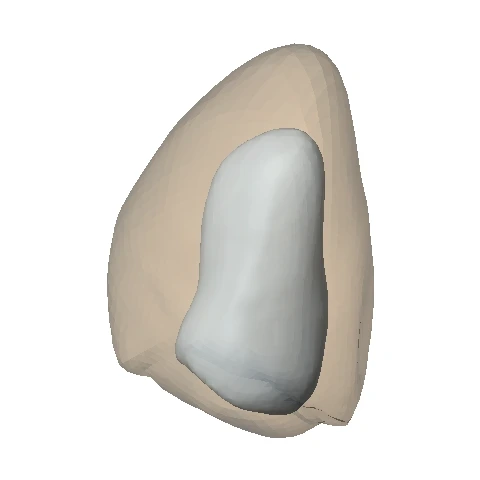
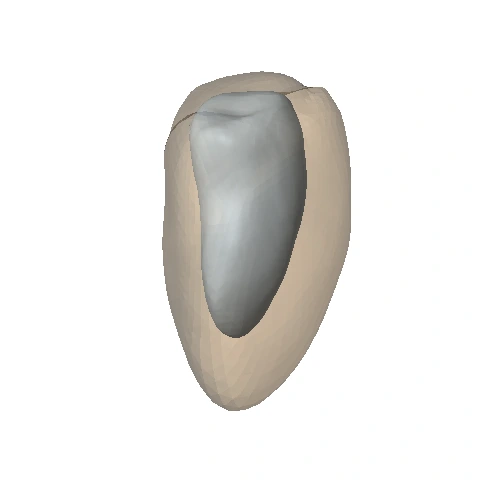
Revise display angles, illustrative RA layout, and demo comparisons

Changed region(s): [[0.2188, 0.0938, 0.7812, 0.9375]]

diff --git a/docs/data.js b/docs/data.js
@@ -1,1 +1,1 @@
-window.DEMO_DATA = {"clinical":[{"label":"Normal","gif":"assets/normal-01.gif","poster":"assets/normal-01.webp","frames":25,"views":{"Common":{"gif":"assets/normal-01.gif","poster":"assets/normal-01.webp","frames":25},"A2C":{"gif":"assets/normal-01-A2C.gif","poster":"assets/normal-01-A2C.webp","frames":25},"A3C":{"gif":"assets/normal-01-A3C.gif","poster":"assets/normal-01-A3C.webp","frames":25},"A4C":{"gif":"assets/normal-01-A4C.gif","poster":"assets/normal-01-A4C.webp","frames":25}}},{"label":"HCM","gif":"assets/hcm-01.gif","poster":"assets/hcm-01.webp","frames":24,"views":{"Common":{"gif":"assets/hcm-01.gif","poster":"assets/hcm-01.webp","frames":24},"A2C":{"gif":"assets/hcm-01-A2C.gif","poster":"assets/hcm-01-A2C.webp","frames":24},"A3C":{"gif":"assets/hcm-01-A3C.gif","poster":"assets/hcm-01-A3C.webp","frames":24},"A4C":{"gif":"assets/hcm-01-A4C.gif","poster":"assets/hcm-01-A4C.webp","frames":24}}},{"label":"MRI-derived · R01 (MI LV prior)","gif":"assets/mri-prior-01.gif","poster":"assets/mri-prior-01.webp","frames":25,"views":{"Common":{"gif":"assets/mri-prior-01.gif","poster":"assets/mri-prior-01.webp","frames":25},"A2C":{"gif":"assets/mri-prior-01-A2C.gif","poster":"assets/mri-prior-01-A2C.webp","frames":25},"A3C":{"gif":"assets/mri-prior-01-A3C.gif","poster":"assets/mri-prior-01-A3C.webp","frames":25},"A4C":{"gif":"assets/mri-prior-01-A4C.gif","poster":"assets/mri-prior-01-A4C.webp","frames":25}}}],"wholeheart":[{"label":"Whole heart · P1","gif":"assets/wholeheart-01.gif","poster":"assets/wholeheart-01.webp","frames":35},{"label":"Whole heart · P2","gif":"assets/wholeheart-02.gif","poster":"assets/wholeheart-02.webp","frames":35}],"heldout":[{"label":"Normal · P1","image":"assets/heldout-1-echo.png"},{"label":"MI · P2","image":"assets/heldout-2-echo.png"},{"label":"HCM · P3","image":"assets/heldout-3-echo.png"}],"ct":[{"label":"CT · P1","gif":"assets/ct-1.gif","poster":"assets/ct-1.webp"},{"label":"CT · P2","gif":"assets/ct-2.gif","poster":"assets/ct-2.webp"},{"label":"CT · P3","gif":"assets/ct-3.gif","poster":"assets/ct-3.webp"}],"mri":[{"label":"MRI · P1","frames":["assets/mri-P1/000.webp","assets/mri-P1/001.webp","assets/mri-P1/002.webp","assets/mri-P1/003.webp","assets/mri-P1/004.webp","assets/mri-P1/005.webp","assets/mri-P1/006.webp","assets/mri-P1/007.webp","assets/mri-P1/008.webp","assets/mri-P1/009.webp","assets/mri-P1/010.webp","assets/mri-P1/011.webp","assets/mri-P1/012.webp","assets/mri-P1/013.webp","assets/mri-P1/014.webp","assets/mri-P1/015.webp","assets/mri-P1/016.webp","assets/mri-P1/017.webp","assets/mri-P1/018.webp","assets/mri-P1/019.webp","assets/mri-P1/020.webp","assets/mri-P1/021.webp","assets/mri-P1/022.webp","assets/mri-P1/023.webp","assets/mri-P1/024.webp"],"curves":{"MRI GT":[[0,1],[4,0.9591960143537437],[8,0.9075745395481257],[12,0.8218454034153171],[16,0.6796065079481576],[20,0.6168328038008901],[24,0.5366087340011614],[28,0.48575466834549963],[32,0.455918108863605],[36,0.4398583729374521],[40,0.44484797332453674],[44,0.45601543720263854],[48,0.49517530117222475],[52,0.5852567838455223],[56,0.6936541164462414],[60,0.7460487027340879],[64,0.7778282110797115],[68,0.7990675495861659],[72,0.8023002060925484],[76,0.7987164229560849],[80,0.8097010547274791],[84,0.840080553180822],[88,0.9048547809493717],[92,0.9759199799048512],[96,0.9896440440273611]],"EchoSDF":[[0,1],[4,0.9534299527549093],[8,0.8765894071626954],[12,0.812953670508796],[16,0.6982382712477174],[20,0.613862252244682],[24,0.5428787706293268],[28,0.48932140645224975],[32,0.45715175831710486],[36,0.441028015892486],[40,0.43938245423673356],[44,0.4385940428586615],[48,0.49021291399515987],[52,0.5808442984302828],[56,0.673505449201432],[60,0.7503830823072125],[64,0.7887288309768579],[68,0.7891005518319734],[72,0.7982016194054969],[76,0.8116043222007019],[80,0.8072140401484368],[84,0.8575144675562794],[88,0.8885936154449661],[92,0.9480826409963378],[96,1.0140472361706319]]},"downloads":{"meshCurve":"assets/mri-P1-mesh-curve.gif","curve":"assets/mri-P1-curve.gif"}},{"label":"MRI · P2","frames":["assets/mri-P2/000.webp","assets/mri-P2/001.webp","assets/mri-P2/002.webp","assets/mri-P2/003.webp","assets/mri-P2/004.webp","assets/mri-P2/005.webp","assets/mri-P2/006.webp","assets/mri-P2/007.webp","assets/mri-P2/008.webp","assets/mri-P2/009.webp","assets/mri-P2/010.webp","assets/mri-P2/011.webp","assets/mri-P2/012.webp","assets/mri-P2/013.webp","assets/mri-P2/014.webp","assets/mri-P2/015.webp","assets/mri-P2/016.webp","assets/mri-P2/017.webp","assets/mri-P2/018.webp","assets/mri-P2/019.webp","assets/mri-P2/020.webp","assets/mri-P2/021.webp","assets/mri-P2/022.webp","assets/mri-P2/023.webp","assets/mri-P2/024.webp"],"curves":{"MRI GT":[[0,1],[4,0.9428890890970781],[8,0.8601787728522788],[12,0.7563681246157092],[16,0.6534936855060148],[20,0.5621004587428748],[24,0.5165021400749643],[28,0.48208159553220675],[32,0.47224756256312145],[36,0.49034717489853935],[40,0.5654340397534897],[44,0.6970419615004203],[48,0.8178829219928172],[52,0.8818342132570754],[56,0.8953431787228406],[60,0.8976211159345634],[64,0.8947939908665856],[68,0.9038835853552963],[72,0.8977629875746587],[76,0.8965652287953443],[80,0.9023826440902427],[84,0.8976977022659686],[88,0.9090310487769343],[92,0.9497972427300254],[96,0.9888811937420776]],"EchoSDF":[[0,1],[4,0.9071634074868538],[8,0.849588961384968],[12,0.7478476659864929],[16,0.6575016193424809],[20,0.5783440358331281],[24,0.5061229138673393],[28,0.4808488026306557],[32,0.4607715554133868],[36,0.4934952036776385],[40,0.5611136479653932],[44,0.6670198739795491],[48,0.7857084791318383],[52,0.8576127529329158],[56,0.8831350859225453],[60,0.8761567209162804],[64,0.904320715372095],[68,0.9097687535034328],[72,0.9091558056858676],[76,0.928670521433221],[80,0.9210662933795176],[84,0.8959813699353344],[88,0.8998474805826134],[92,0.9317480004038758],[96,0.9601350022358602]]},"downloads":{"meshCurve":"assets/mri-P2-mesh-curve.gif","curve":"assets/mri-P2-curve.gif"}}],"overlap":{"label":"Three-view LV overlap · Normal P1","gif":"assets/overlap-echo.gif","poster":"assets/overlap-echo.png"}};
+window.DEMO_DATA = {"clinical":[{"label":"Normal","gif":"assets/normal-01.gif","poster":"assets/normal-01.webp","frames":25,"views":{"Common":{"gif":"assets/normal-01.gif","poster":"assets/normal-01.webp","frames":25},"A2C":{"gif":"assets/normal-01-A2C.gif","poster":"assets/normal-01-A2C.webp","frames":25},"A3C":{"gif":"assets/normal-01-A3C.gif","poster":"assets/normal-01-A3C.webp","frames":25},"A4C":{"gif":"assets/normal-01-A4C.gif","poster":"assets/normal-01-A4C.webp","frames":25}}},{"label":"HCM","gif":"assets/hcm-01.gif","poster":"assets/hcm-01.webp","frames":24,"views":{"Common":{"gif":"assets/hcm-01.gif","poster":"assets/hcm-01.webp","frames":24},"A2C":{"gif":"assets/hcm-01-A2C.gif","poster":"assets/hcm-01-A2C.webp","frames":24},"A3C":{"gif":"assets/hcm-01-A3C.gif","poster":"assets/hcm-01-A3C.webp","frames":24},"A4C":{"gif":"assets/hcm-01-A4C.gif","poster":"assets/hcm-01-A4C.webp","frames":24}}},{"label":"MI","gif":"assets/mri-prior-01.gif","poster":"assets/mri-prior-01.webp","frames":25,"views":{"Common":{"gif":"assets/mri-prior-01.gif","poster":"assets/mri-prior-01.webp","frames":25},"A2C":{"gif":"assets/mri-prior-01-A2C.gif","poster":"assets/mri-prior-01-A2C.webp","frames":25},"A3C":{"gif":"assets/mri-prior-01-A3C.gif","poster":"assets/mri-prior-01-A3C.webp","frames":25},"A4C":{"gif":"assets/mri-prior-01-A4C.gif","poster":"assets/mri-prior-01-A4C.webp","frames":25}}}],"wholeheart":[{"label":"Whole heart · P1 (display-adjusted)","gif":"assets/wholeheart-01-adjusted.gif","poster":"assets/wholeheart-01-adjusted.webp","frames":35,"originalGif":"assets/wholeheart-01.gif","originalPoster":"assets/wholeheart-01.webp"},{"label":"Whole heart · P2","gif":"assets/wholeheart-02.gif","poster":"assets/wholeheart-02.webp","frames":35}],"heldout":[{"label":"Normal · P1","image":"assets/heldout-1-echo.png"},{"label":"MI · P2","image":"assets/heldout-2-echo.png"},{"label":"HCM · P3","image":"assets/heldout-3-echo.png"}],"ct":[{"label":"CT · P1","gif":"assets/ct-1.gif","poster":"assets/ct-1.webp"},{"label":"CT · P2","gif":"assets/ct-2.gif","poster":"assets/ct-2.webp"},{"label":"CT · P3","gif":"assets/ct-3.gif","poster":"assets/ct-3.webp"}],"mri":[{"label":"MRI · P1","frames":["assets/mri-P1/000.webp","assets/mri-P1/001.webp","assets/mri-P1/002.webp","assets/mri-P1/003.webp","assets/mri-P1/004.webp","assets/mri-P1/005.webp","assets/mri-P1/006.webp","assets/mri-P1/007.webp","assets/mri-P1/008.webp","assets/mri-P1/009.webp","assets/mri-P1/010.webp","assets/mri-P1/011.webp","assets/mri-P1/012.webp","assets/mri-P1/013.webp","assets/mri-P1/014.webp","assets/mri-P1/015.webp","assets/mri-P1/016.webp","assets/mri-P1/017.webp","assets/mri-P1/018.webp","assets/mri-P1/019.webp","assets/mri-P1/020.webp","assets/mri-P1/021.webp","assets/mri-P1/022.webp","assets/mri-P1/023.webp","assets/mri-P1/024.webp"],"curves":{"MRI GT":[[0,1],[4,0.9591960143537437],[8,0.9075745395481257],[12,0.8218454034153171],[16,0.6796065079481576],[20,0.6168328038008901],[24,0.5366087340011614],[28,0.48575466834549963],[32,0.455918108863605],[36,0.4398583729374521],[40,0.44484797332453674],[44,0.45601543720263854],[48,0.49517530117222475],[52,0.5852567838455223],[56,0.6936541164462414],[60,0.7460487027340879],[64,0.7778282110797115],[68,0.7990675495861659],[72,0.8023002060925484],[76,0.7987164229560849],[80,0.8097010547274791],[84,0.840080553180822],[88,0.9048547809493717],[92,0.9759199799048512],[96,0.9896440440273611]],"EchoSDF":[[0,1],[4,0.9534299527549093],[8,0.8765894071626954],[12,0.812953670508796],[16,0.6982382712477174],[20,0.613862252244682],[24,0.5428787706293268],[28,0.48932140645224975],[32,0.45715175831710486],[36,0.441028015892486],[40,0.43938245423673356],[44,0.4385940428586615],[48,0.49021291399515987],[52,0.5808442984302828],[56,0.673505449201432],[60,0.7503830823072125],[64,0.7887288309768579],[68,0.7891005518319734],[72,0.7982016194054969],[76,0.8116043222007019],[80,0.8072140401484368],[84,0.8575144675562794],[88,0.8885936154449661],[92,0.9480826409963378],[96,1.0140472361706319]]},"downloads":{"meshCurve":"assets/mri-P1-mesh-curve.gif","curve":"assets/mri-P1-curve.gif"}},{"label":"MRI · P2","frames":["assets/mri-P2/000.webp","assets/mri-P2/001.webp","assets/mri-P2/002.webp","assets/mri-P2/003.webp","assets/mri-P2/004.webp","assets/mri-P2/005.webp","assets/mri-P2/006.webp","assets/mri-P2/007.webp","assets/mri-P2/008.webp","assets/mri-P2/009.webp","assets/mri-P2/010.webp","assets/mri-P2/011.webp","assets/mri-P2/012.webp","assets/mri-P2/013.webp","assets/mri-P2/014.webp","assets/mri-P2/015.webp","assets/mri-P2/016.webp","assets/mri-P2/017.webp","assets/mri-P2/018.webp","assets/mri-P2/019.webp","assets/mri-P2/020.webp","assets/mri-P2/021.webp","assets/mri-P2/022.webp","assets/mri-P2/023.webp","assets/mri-P2/024.webp"],"curves":{"MRI GT":[[0,1],[4,0.9428890890970781],[8,0.8601787728522788],[12,0.7563681246157092],[16,0.6534936855060148],[20,0.5621004587428748],[24,0.5165021400749643],[28,0.48208159553220675],[32,0.47224756256312145],[36,0.49034717489853935],[40,0.5654340397534897],[44,0.6970419615004203],[48,0.8178829219928172],[52,0.8818342132570754],[56,0.8953431787228406],[60,0.8976211159345634],[64,0.8947939908665856],[68,0.9038835853552963],[72,0.8977629875746587],[76,0.8965652287953443],[80,0.9023826440902427],[84,0.8976977022659686],[88,0.9090310487769343],[92,0.9497972427300254],[96,0.9888811937420776]],"EchoSDF":[[0,1],[4,0.9071634074868538],[8,0.849588961384968],[12,0.7478476659864929],[16,0.6575016193424809],[20,0.5783440358331281],[24,0.5061229138673393],[28,0.4808488026306557],[32,0.4607715554133868],[36,0.4934952036776385],[40,0.5611136479653932],[44,0.6670198739795491],[48,0.7857084791318383],[52,0.8576127529329158],[56,0.8831350859225453],[60,0.8761567209162804],[64,0.904320715372095],[68,0.9097687535034328],[72,0.9091558056858676],[76,0.928670521433221],[80,0.9210662933795176],[84,0.8959813699353344],[88,0.8998474805826134],[92,0.9317480004038758],[96,0.9601350022358602]]},"downloads":{"meshCurve":"assets/mri-P2-mesh-curve.gif","curve":"assets/mri-P2-curve.gif"}}],"overlap":{"label":"Three-view LV overlap · Normal P1","gif":"assets/overlap-echo.gif","poster":"assets/overlap-echo.png"},"comparison":{"label":"Published reconstruction comparison","gif":"assets/comparison-external.gif","poster":"assets/comparison-external.webp","source":"https://github.com/ryannus2025-ai/Echo4DIR","frames":88}};

diff --git a/docs/index.html b/docs/index.html
@@ -2,11 +2,11 @@
 <html lang="en"><head><meta charset="utf-8"><meta name="viewport" content="width=device-width, initial-scale=1"><meta name="description" content="Echo4DMesh: from sparse echo views to dynamic 4D cardiac meshes. Research demonstrations from sparse-view masks."><title>From Sparse Echo Views to Dynamic 4D Cardiac Meshes · Echo4DMesh</title><link rel="stylesheet" href="style.css"><script defer src="data.js"></script><script defer src="app.js"></script></head>
 <body><header><a class="brand" href="#">Echo<span>4D</span>Mesh</a><nav aria-label="Main navigation"><a href="#clinical">Clinical</a><a href="#overlap">Cross-sections</a><a href="#wholeheart">Whole heart</a><a href="#validation">Validation</a><a href="https://github.com/lya19971103/Echo4DMesh">GitHub ↗</a></nav></header>
 <main><section class="hero"><div><p class="eyebrow">RESEARCH DEMONSTRATIONS / CARDIAC RECONSTRUCTION</p><h1>From sparse echo views<br>To dynamic <em>4D cardiac meshes.</em></h1><p class="intro">Explore patient-specific cardiac surfaces, cross-sectional agreement, and paired CT and cine MRI comparisons.</p><a class="button" href="#clinical">Explore the reconstructions ↓</a><p class="fine">Derived research visualizations · Not for clinical use</p></div><figure class="hero-media"><img src="assets/normal-01.webp" alt="Reconstructed LV within its epicardial envelope"><figcaption>Left ventricle + epicardial envelope<span>4D / surface geometry</span></figcaption></figure></section>
-<section id="clinical"><div class="section-head"><p class="eyebrow">01 / CARDIAC MOTION</p><h2>One framework. Different anatomies.</h2><p>Normal and HCM clinical echo examples, alongside an MRI-derived three-view reconstruction using an MI LV prior. All three start from a common display angle; select A2C, A3C or A4C to inspect the corresponding calibrated view.</p></div><div id="clinical-grid" class="grid three"></div><p class="note">The third example is MRI-derived, not a clinical MI echo case; MI denotes its LV prior. View labels refer to learned imaging planes, and MRI views are approximate. These selected examples illustrate morphology and motion, not diagnostic classification. Playback is normalized, not clinical heart rate. An epicardial envelope is not a separate measurement of myocardial wall thickness.</p></section>
+<section id="clinical"><div class="section-head"><p class="eyebrow">01 / CARDIAC MOTION</p><h2>One framework. Different anatomies.</h2><p>Three representative LV–MYO motion examples share the same display angle. Select A2C, A3C or A4C for schematic views obtained by rotating about the common vertical axis.</p></div><div id="comparison-player" class="comparison-block"></div><p class="note comparison-note">Published demo from <a href="https://github.com/ryannus2025-ai/Echo4DIR">Echo4DIR</a>. The middle-column header is relabeled “w/o TC-RSA”; it remains the original frame-by-frame comparator. Mesh imagery and timing are unchanged; this is not a newly run ablation.</p><div id="clinical-grid" class="grid three"></div><p class="note">The card labeled MI uses MRI-derived input masks and an MI LV prior, not a verified clinical MI echo acquisition. View labels are schematic: A4C = common angle, A2C = +60°, A3C = +120° about the display vertical axis; they are not calibrated acquisition planes. These selected examples illustrate morphology and motion, not diagnostic classification. Playback is normalized, not clinical heart rate. An epicardial envelope is not a separate measurement of myocardial wall thickness.</p></section>
 <section id="heldout"><div class="section-head"><p class="eyebrow">02 / HELD-OUT SHAPE ADAPTATION</p><h2>A view beyond the shape inputs.</h2><p>A3C and A4C drive shape adaptation. Compare the predicted A2C cross-section with its reference mask before and after adaptation, overlaid on the matched ultrasound frame.</p></div><div class="protocol"><span>A3C + A4C</span><span aria-hidden="true">→</span><span>Shape adaptation</span><span aria-hidden="true">→</span><span>A2C evaluation</span></div><div id="heldout-grid" class="grid three"></div><p class="legend"><i class="green"></i>Reference only <i class="red"></i>Prediction only <i class="purple"></i>Overlap</p><p class="note">Protocol boundary: A2C is withheld from the shape encoder and shape-adaptation loss, but its mask is used for probe-pose calibration. This is not a completely untouched target-view test. Backgrounds are matched real ultrasound frames with scanner-margin annotations removed; masks and predictions are unchanged.</p></section>
 <section id="overlap"><div class="section-head"><p class="eyebrow">03 / 2D OBSERVATION AGREEMENT</p><h2>Follow the cross-sections through a cycle.</h2><p>LV sections of the exported mesh compared with the input masks in A2C, A3C and A4C, using the fixed calibrated planes.</p></div><div id="overlap-player" class="wide"></div><p class="legend"><i class="green"></i>Reference only <i class="red"></i>Prediction only <i class="purple"></i>Overlap</p><p class="note">This is an observed-view fit, separate from the held-out experiment above. High 2D overlap does not by itself establish independent 3D anatomical accuracy.</p></section>
-<section id="wholeheart"><div class="section-head"><p class="eyebrow">04 / MULTI-STRUCTURE EXPLORATION</p><h2>A shared space for the whole heart.</h2><p>Two five-structure surface reconstructions in a common coordinate system, shown with smooth lighting and a more transparent epicardial envelope.</p></div><div id="wholeheart-grid" class="grid two"></div><p class="note">LV: pearl · epicardial envelope: champagne · RV: blue · LA: orange · RA: teal. Display normals are smoothed; vertex positions are unchanged. Chambers are independently closed surfaces, not a valve-connected anatomical model. Residual gaps or intersections may remain, including a phase-dependent RA–RV gap in P1. Relative anatomical validity and wall thickness require separate evaluation.</p></section>
-<section id="validation"><div class="section-head"><p class="eyebrow">05 / CT GEOMETRY COMPARISON</p><h2>A different modality. A three-dimensional reference.</h2><p>Rotate the paper's three patient-matched LV examples: reconstruction in red and CT reference as a thin blue wireframe, matching the MRI comparison style below.</p></div><div id="ct-grid" class="grid three"></div><p class="note">The CT wireframe is simplified for display only; source meshes and measurements are unchanged. Camera rotation only: these are static end-diastolic surfaces, not CT motion sequences. A global similarity transform aligns position, orientation and uniform scale; no nonrigid deformation is applied. These revised-label visualization examples are complementary CT comparisons, not additional independent validation or evidence of absolute scale recovery.</p></section>
+<section id="wholeheart"><div class="section-head"><p class="eyebrow">04 / MULTI-STRUCTURE EXPLORATION</p><h2>A shared space for the whole heart.</h2><p>Five-structure surfaces with smooth lighting and a transparent epicardial envelope. P1 additionally includes a clearly labeled display-only RA position adjustment; its original reconstruction remains available.</p></div><div id="wholeheart-grid" class="grid two"></div><p class="note">LV: pearl · epicardial envelope: champagne · RV: blue · LA: orange · RA: teal. P1: RA is translated downward by 3% of the whole-heart display height, identically at all phases, for illustrative layout only. This adjusted view is not an evaluated reconstruction. Use “Show original geometry” to inspect the unchanged output. P2 positions are unchanged. Chambers are independently closed surfaces, not a valve-connected model; gaps or intersections may remain.</p></section>
+<section id="validation"><div class="section-head"><p class="eyebrow">05 / CT GEOMETRY COMPARISON</p><h2>A different modality. A three-dimensional reference.</h2><p>Rotate the paper's three patient-matched LV examples: reconstruction in red and CT reference as a thin blue wireframe, matching the MRI comparison colors, surface opacity and wire styling below. Each lower-left inset is the corresponding static 3D overlap panel from the paper.</p></div><div id="ct-grid" class="grid three"></div><p class="note">The CT wireframe is simplified for display only; source meshes and measurements are unchanged. Camera rotation only: these are static end-diastolic surfaces, not CT motion sequences. A global similarity transform aligns position, orientation and uniform scale; no nonrigid deformation is applied. These revised-label visualization examples are complementary CT comparisons, not additional independent validation or evidence of absolute scale recovery.</p></section>
 <section id="mri"><div class="section-head"><p class="eyebrow">06 / CINE MRI TEMPORAL COMPARISON</p><h2>Geometry and volume, in step.</h2><p>The two paper-selected examples pair each rendered frame with its measured normalized LV volume. Scrub the cycle or press play: mesh and curve marker share the same frame index.</p><a class="download-link" href="assets/MRI_mesh_and_volume_GIFs.zip" download>Download MRI mesh + volume-curve GIFs ↓</a></div><div id="mri-grid" class="grid two"></div><p class="note">Red: reconstructed LV · blue: MRI reference · champagne: epicardial envelope. Curves are normalized by each sequence's end-diastolic volume. All 25 native frames are retained; frame 24 is 96% of a periodic cycle. The 100% curve endpoint repeats frame 0 for display closure, not an extra measured frame. MRI-derived approximate view masks are distinct from clinical ultrasound acquisition.</p></section>
 <section class="methods"><p class="eyebrow">READING THESE DEMOS</p><h2>Geometry is evidence. Context matters.</h2><div class="grid three"><div><h3>Real outputs, not illustrations</h3><p>Animations are rendered from stored reconstruction outputs. CT camera motion does not deform the mesh; MRI curves use stored per-frame measurements.</p></div><div><h3>Separate evaluation questions</h3><p>Observed-view overlap, held-out shape adaptation, CT geometry and MRI temporal agreement address different questions and should not be treated as interchangeable.</p></div><div><h3>Display aliases only</h3><p>Public assets use cohort labels and display aliases. Ultrasound previews exclude scanner-margin annotations; source filenames, scan dates, raw scan files and private filesystem paths are not distributed.</p></div></div></section></main>
 <footer><a class="brand" href="#">Echo<span>4D</span>Mesh</a><p>Research demo gallery · <a href="https://github.com/lya19971103/Echo4DMesh">Source repository ↗</a></p><p>For research communication only. No clinical interpretation is provided.</p></footer></body></html>

diff --git a/docs/style.css b/docs/style.css
@@ -1,2 +1,3 @@
 :root{--ink:#17332e;--muted:#536b65;--paper:#f6f8f4;--accent:#16785c;--line:#d9e3dc}*{box-sizing:border-box}html{scroll-behavior:smooth;scroll-padding-top:90px}body{margin:0;color:var(--ink);background:var(--paper);font:16px/1.65 system-ui,-apple-system,BlinkMacSystemFont,"Segoe UI",sans-serif}header{display:flex;justify-content:space-between;align-items:center;gap:24px;padding:19px 5vw;border-bottom:1px solid var(--line);background:#f6f8f4f5;position:sticky;top:0;z-index:5;backdrop-filter:blur(12px)}a{color:inherit;text-underline-offset:4px}.brand{font-weight:800;font-size:22px;letter-spacing:-1px;text-decoration:none;white-space:nowrap}.brand span{color:var(--accent)}nav{display:flex;gap:24px;font-size:13px}nav a{text-decoration:none}nav a:hover{color:var(--accent)}main{max-width:1280px;margin:auto;padding:0 5vw}.hero{display:grid;grid-template-columns:1.15fr 1fr;gap:60px;align-items:center;padding:70px 0 80px}.eyebrow{font-size:11px;letter-spacing:2px;font-weight:750;color:var(--accent)}h1{font-size:clamp(38px,4.7vw,66px);line-height:1.08;font-weight:650;letter-spacing:-3px;margin:22px 0}h1 em{font-family:Georgia,serif;font-weight:normal;color:var(--accent)}.intro{font-size:18px;color:var(--muted);max-width:500px}.button,button{display:inline-block;background:var(--ink);color:white;border:0;border-radius:6px;padding:12px 18px;font:600 13px system-ui;cursor:pointer;text-decoration:none}.button{margin-top:15px}.fine{font-size:11px;color:var(--muted);margin-top:20px}.hero-media{margin:0;background:white;border:1px solid var(--line);border-radius:18px;overflow:hidden}.hero-media img{width:100%;display:block}.hero-media figcaption{padding:16px 20px;font-size:12px;border-top:1px solid var(--line)}figcaption span{display:block;color:var(--muted);font-size:10px;text-transform:uppercase;letter-spacing:1px}section:not(.hero){padding:55px 0;border-top:1px solid var(--line)}.section-head{max-width:780px;margin-bottom:30px}h2{font-size:clamp(25px,3vw,37px);line-height:1.2;letter-spacing:-1.2px;font-weight:650;margin:12px 0 18px}.section-head p:not(.eyebrow),.note{color:var(--muted)}.grid{display:grid;gap:20px}.three{grid-template-columns:repeat(3,1fr)}.two{grid-template-columns:repeat(2,1fr)}.card{background:white;border:1px solid var(--line);border-radius:10px;overflow:hidden}.card h3{font-size:15px;margin:0;padding:16px 18px;border-bottom:1px solid var(--line)}.card img{width:100%;display:block;object-fit:contain}.controls{display:flex;align-items:center;gap:12px;padding:12px 16px;border-top:1px solid var(--line);flex-wrap:wrap;font-size:12px}.controls a{margin-left:auto;color:var(--accent)}button{padding:8px 14px}button:hover{background:var(--accent)}button:focus-visible,a:focus-visible,input:focus-visible{outline:3px solid #d39632;outline-offset:3px}.note{font-size:12px;line-height:1.7;margin-top:20px;max-width:1000px}.protocol{display:flex;gap:18px;align-items:center;flex-wrap:wrap;margin:0 0 25px;font-size:13px}.protocol span:nth-child(odd){border:1px solid var(--line);padding:8px 18px;border-radius:5px;background:white}.legend{display:flex;align-items:center;justify-content:center;gap:8px;font-size:12px;flex-wrap:wrap}.legend i{width:12px;height:12px;margin-left:14px}.green{background:#77d27e}.red{background:#ff6675}.purple{background:#7f2ea4}.wide{max-width:900px;margin:auto}.wide img{width:100%}.mri-image{max-height:420px}.mri-curve{width:100%;height:180px;display:block}.slider{width:100%;accent-color:var(--accent)}.readout{font-variant-numeric:tabular-nums;color:var(--muted)}.chart-legend{display:flex;gap:15px;padding:0 18px;font-size:11px}.chart-legend span:before{content:'— ';font-weight:bold;color:var(--c)}.methods h3{font-size:16px}.methods .grid p{font-size:13px;color:var(--muted)}footer{border-top:1px solid var(--line);padding:35px 5vw;display:flex;gap:35px;justify-content:space-between;align-items:center;font-size:11px;color:var(--muted)}@media(max-width:800px){header{flex-wrap:wrap;gap:9px}nav{gap:14px;flex-wrap:wrap;font-size:11px}.hero{grid-template-columns:1fr;gap:25px;padding:35px 0}.hero-media{max-width:420px}h1{letter-spacing:-1.8px}.three,.two{grid-template-columns:1fr}.card{max-width:620px;width:100%;margin:auto}section:not(.hero){padding:35px 0}footer{align-items:flex-start;flex-direction:column;gap:5px}}@media(prefers-reduced-motion:reduce){html{scroll-behavior:auto}}
 .view-selector{display:flex;align-items:center;gap:8px;width:100%;color:var(--muted)}.view-selector select{min-width:0;max-width:100%;padding:6px 8px;border:1px solid var(--line);border-radius:4px;background:white;color:var(--ink);font:inherit}.view-downloads{display:flex;flex-wrap:wrap;gap:10px 16px;padding:12px 16px;border-top:1px solid var(--line);font-size:12px;color:var(--accent)}.download-link{font-size:14px;color:var(--accent)}select:focus-visible{outline:3px solid #d39632;outline-offset:3px}
+.comparison-block{max-width:760px;margin:0 auto 14px}.comparison-block img{background:black}.comparison-note{margin:0 auto 30px;max-width:760px}.geometry-toggle{background:#685543}

diff --git a/docs/app.js b/docs/app.js
@@ -3,8 +3,10 @@ const D=window.DEMO_DATA;
 function player(item){const card=document.createElement('article');card.className='card';card.innerHTML=`<h3>${item.label}</h3><img src="${item.poster}" alt="${item.label} reconstruction preview" loading="lazy"><div class="controls"><button type="button" aria-pressed="false">Play animation</button><a class="active-download" href="${item.gif}" download>Download GIF ↓</a></div>`;const button=card.querySelector('button'),img=card.querySelector('img');let selected=item;
  button.onclick=()=>{const play=button.getAttribute('aria-pressed')!=='true';button.setAttribute('aria-pressed',String(play));button.textContent=play?'Stop animation':'Play animation';img.src=play?selected.gif:selected.poster;};
  if(item.views){const controls=card.querySelector('.controls'),label=document.createElement('label'),select=document.createElement('select');label.className='view-selector';label.textContent='View ';select.setAttribute('aria-label',item.label+' viewing direction');for(const view of Object.keys(item.views)){const option=document.createElement('option');option.value=view;option.textContent=view==='Common'?'Common display angle':view;select.append(option);}label.append(select);controls.prepend(label);select.onchange=()=>{selected=item.views[select.value];img.src=button.getAttribute('aria-pressed')==='true'?selected.gif:selected.poster;card.querySelector('.active-download').href=selected.gif;img.alt=item.label+' · '+select.value;};const downloads=document.createElement('div');downloads.className='view-downloads';for(const view of ['A2C','A3C','A4C']){const link=document.createElement('a');link.href=item.views[view].gif;link.download='';link.textContent=view+' GIF ↓';downloads.append(link);}card.append(downloads);}
+ if(item.originalGif){let adjusted=true;const toggle=document.createElement('button');toggle.type='button';toggle.className='geometry-toggle';toggle.textContent='Show original geometry';toggle.onclick=()=>{adjusted=!adjusted;selected=adjusted?item:{gif:item.originalGif,poster:item.originalPoster};img.src=button.getAttribute('aria-pressed')==='true'?selected.gif:selected.poster;card.querySelector('.active-download').href=selected.gif;card.querySelector('h3').textContent=adjusted?item.label:'Whole heart · P1 (original geometry)';toggle.textContent=adjusted?'Show original geometry':'Show display adjustment';};card.querySelector('.controls').append(toggle);}
  return card;}
 for(const [key,id] of [['clinical','clinical-grid'],['wholeheart','wholeheart-grid'],['ct','ct-grid']])for(const item of D[key])document.getElementById(id).append(player(item));
+document.getElementById('comparison-player').append(player(D.comparison));
 for(const item of D.heldout){const card=document.createElement('article');card.className='card';card.innerHTML=`<h3>${item.label} · held-out A2C</h3><img src="${item.image}" alt="Before and after shape adaptation on matched real A2C ultrasound" loading="lazy">`;document.getElementById('heldout-grid').append(card);}
 document.getElementById('overlap-player').append(player(D.overlap));
 for(const item of D.mri){
